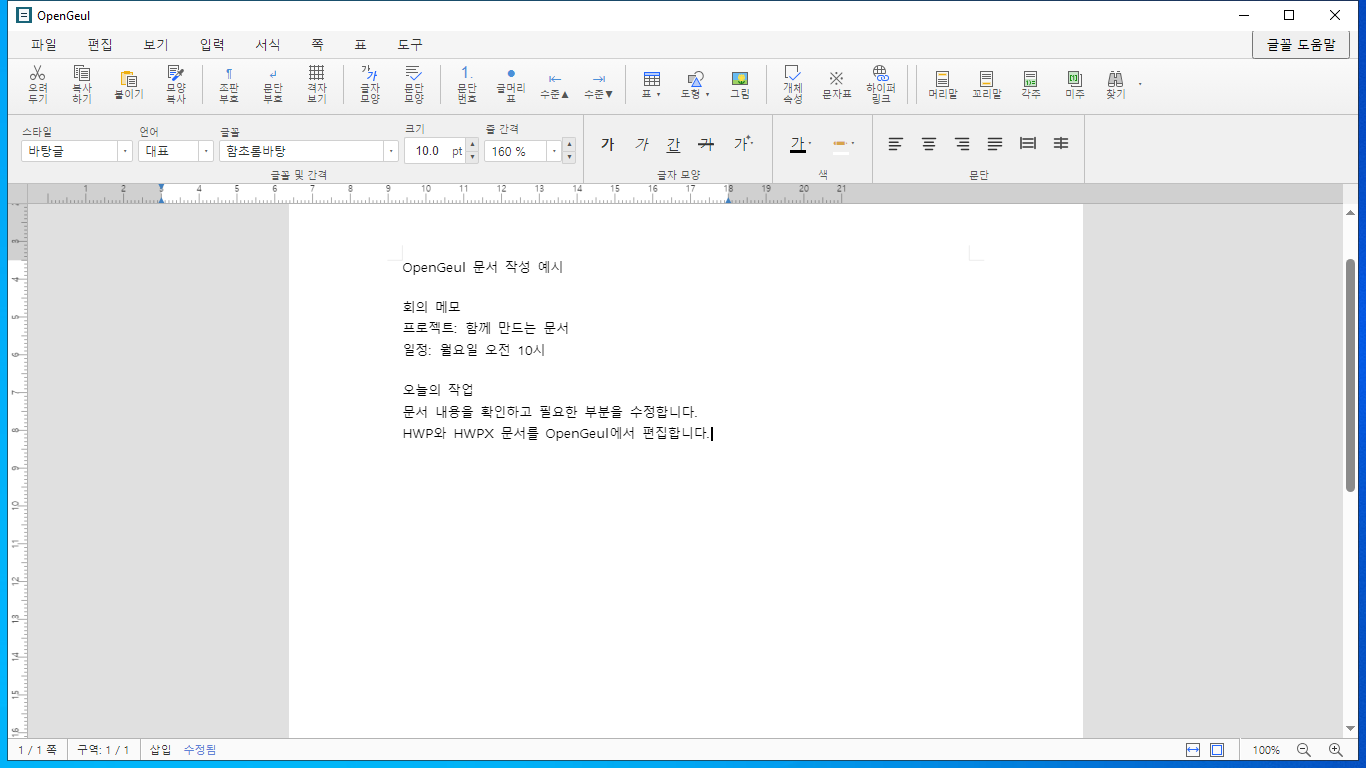
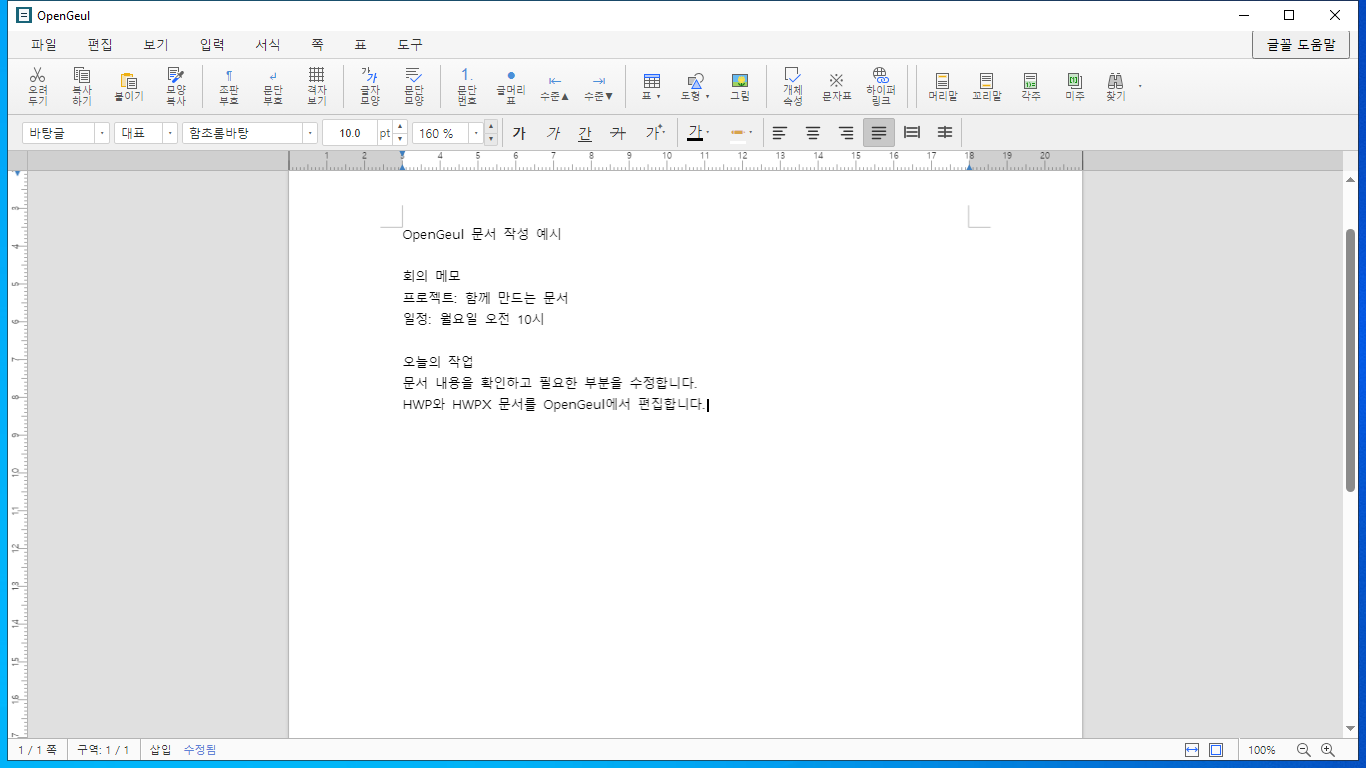
docs: publish qualified 1.1.2 development release guidance

diff --git a/website/privacy.html b/website/privacy.html
@@ -19,7 +19,7 @@
   <main id="main" class="policy wrap">
     <p class="eyebrow">OpenGeul</p>
     <h1>개인정보 처리방침</h1>
-    <p class="policy-date">적용 버전 / Applies to: OpenGeul 1.1.1–1.1.2 · 날짜 / Date: 2026-10-11</p>
+    <p class="policy-date">적용 버전 / Applies to: OpenGeul 1.1.2 개발판 · 날짜 / Date: 2026-10-11</p>
     <nav class="policy-nav" aria-label="개인정보 처리방침 언어와 항목"><a href="#korean">한국어</a><a href="#english" lang="en">English</a><a href="#website">웹사이트와 고객지원</a></nav>
     <p class="notice">OpenGeul 앱의 문서는 PC에서 처리합니다. 이 웹사이트의 접속 정보는 웹 호스팅 제공자가 처리할 수 있습니다. 앱과 웹사이트의 처리는 아래에 각각 안내합니다.</p>
     <section id="korean" aria-labelledby="korean-title">
@@ -27,6 +27,7 @@
       <p>OpenGeul은 사용자가 선택한 HWP/HWPX 문서를 PC에서 열고 편집하는 Windows 앱입니다. 문서 내용과 파일 경로에 개인정보가 포함될 수 있습니다. 앱은 문서를 읽고, 사용자가 지정한 위치에 문서와 PDF를 저장하며, 복사·잘라내기·붙여넣기 작업에 클립보드를 사용합니다. 인쇄를 요청하면 선택한 Windows 프린터로 출력 내용을 전달합니다.</p>
       <p>최근 문서 목록은 최대 10개 파일의 이름과 전체 경로를 앱의 로컬 데이터 폴더에 저장합니다. 최근 문서 창의 <strong>목록 비우기</strong>로 지울 수 있습니다. <strong>문서 이력 관리 → 현재 문서 저장</strong>을 사용하면 문서 내용의 스냅샷, 파일 이름, 사용자가 지정한 이름과 저장 시각을 로컬 WebView 저장소에 보관합니다. 문서 이력 창의 <strong>선택 삭제</strong> 또는 <strong>전체 비우기</strong>로 지울 수 있습니다. 이 기능은 자동 저장이나 복구 기능이 아닙니다.</p>
       <p>글꼴·화면·창 설정도 로컬에 저장합니다. 앱은 문서 표시와 PDF 내보내기에 설치된 글꼴 정보와 글꼴 파일을 읽습니다. Windows, WebView2 또는 앱의 진단 기능이 로컬 진단 정보를 남길 수 있습니다. 설정, 최근 문서 경로와 로컬 문서 이력에 별도의 앱 자체 암호화를 적용하지 않습니다. PC 사용자 계정과 저장장치의 보안 설정을 사용하세요.</p>
+      <p>암호 문서를 열어 처리한 뒤 다른 이름으로 저장한 HWP/HWPX 파일에는 암호가 적용되지 않습니다. 저장 전에 확인을 요청하며, 확인을 취소하면 그 평문 파일을 만들지 않습니다. 암호 원본을 보관하려면 원본과 다른 경로를 선택하세요. PDF, 인쇄물과 클립보드에도 암호가 해제된 내용이 포함될 수 있으며, 원본 문서의 암호가 자동으로 적용되지 않습니다. 암호를 입력해 연 문서도 문서 이력에 저장하면 복호화된 내용의 로컬 스냅샷이 남을 수 있습니다. 이 스냅샷에는 원본 문서의 암호가 적용되지 않습니다.</p>
       <p>함께 제공하는 명령줄 도구 <code>Tools/rhwp.exe</code>는 사용자가 지정한 문서, 글꼴 폴더와 문서 암호를 처리할 수 있습니다. 명령에 따라 문서 내용과 메타데이터를 파일 또는 표준 출력으로 내보냅니다. 사용자가 로컬 표준 입출력 방식의 MCP 서버를 실행하면 연결한 MCP 클라이언트로 문서 데이터를 전달할 수 있습니다. 도구를 연결한 클라이언트와 출력 파일의 접근 권한을 확인하세요.</p>
       <p>이 버전에는 OpenGeul 계정 로그인, 광고, 분석용 추적 또는 개발자 서버로 문서를 업로드하는 기능이 없습니다. 앱 자체의 백그라운드 업데이트 기능은 비활성화되어 있습니다. <strong>글꼴 도움말</strong>의 다운로드 링크를 누르면 외부 글꼴 사이트를 기본 브라우저로 엽니다. 해당 사이트, Microsoft Store, Windows와 WebView2의 동작에는 각 제공자의 개인정보 처리방침이 적용됩니다. 사용자가 선택한 네트워크 경로, 클라우드 동기화 폴더와 네트워크 프린터는 해당 서비스로 데이터를 전달할 수 있습니다.</p>
       <p>문의는 <a href="mailto:allenlim@allenlim.net">allenlim@allenlim.net</a> 또는 <a href="/#support">OpenGeul 지원 페이지</a>를 이용하세요. 공개 문의에 개인정보가 포함된 문서나 진단 정보를 첨부하지 마세요.</p>
@@ -36,6 +37,7 @@
       <p>OpenGeul is a Windows application that opens and edits HWP/HWPX documents on your PC. Document contents and file paths may contain personal information. The application reads documents you open, writes documents and PDFs to locations you choose, uses the clipboard for copy, cut and paste, and sends rendered content to your chosen Windows printer when you print.</p>
       <p>The recent-document list stores the names and full paths of up to 10 files in the application's local data folder. Clear it with <strong lang="ko">목록 비우기</strong> in the recent-document dialog. If you use <strong lang="ko">문서 이력 관리 → 현재 문서 저장</strong>, the application keeps document-content snapshots, source filenames, your labels and timestamps in local WebView storage. Remove them with <strong lang="ko">선택 삭제</strong> or <strong lang="ko">전체 비우기</strong> in the document-history dialog. This manual history feature is separate from autosave or recovery, which this version does not provide.</p>
       <p>Font, view and window preferences are also stored locally. The application reads installed font information and font files for document rendering and PDF export. Windows, WebView2 or application diagnostics may retain local diagnostic information. The application does not apply its own encryption to preferences, recent-document paths or local document history. Use your PC account and storage security settings to protect them.</p>
+      <p>HWP/HWPX files saved with Save As after opening a password-protected document are unencrypted. The application asks for confirmation before saving; cancelling that confirmation does not create the plaintext file. Choose a different path to keep the encrypted original. PDFs, printed output and clipboard data may also contain decrypted content; the original document's password is not automatically applied to those outputs. Saving a password-opened document to Document History can retain a readable local snapshot of its content. The snapshot is not protected by the document password.</p>
       <p>The bundled command-line tool <code>Tools/rhwp.exe</code> can process documents, font folders and document passwords you specify. Depending on the command, it writes document contents and metadata to files or standard output. If you launch its local stdio MCP server, it can return document data to the MCP client you connect. Check access to that client and any output files.</p>
       <p>This version has no OpenGeul account login, advertising, analytics tracking or feature that uploads documents to a developer-operated server. Its own background updater is disabled. Clicking a download link in <strong lang="ko">글꼴 도움말</strong> opens an external font website in your default browser. Those websites, Microsoft Store, Windows and WebView2 have their own privacy policies. Network paths, cloud-synced folders and network printers you choose can send data through those services.</p>
       <p>Contact the developer at <a href="mailto:allenlim@allenlim.net">allenlim@allenlim.net</a> or through <a href="/#support">OpenGeul support</a>. Do not attach documents or diagnostics containing personal information to a public issue.</p>

diff --git a/website/index.html b/website/index.html
@@ -28,9 +28,9 @@
         <h1 id="hero-title">HWP 문서를,<br><span>내 PC에서 편집하세요.</span></h1>
         <div class="hero-details">
           <p class="lead">OpenGeul은 HWP와 HWPX를 열고 편집·저장하는 무료 문서 편집기입니다. PDF로 내보내거나 Windows 프린터로 인쇄할 수 있습니다.</p>
-          <a class="button primary" href="https://github.com/ATLKR/OpenGeul/releases/download/v1.1.1-dev.29.1/OpenGeul_1.1.1_windows-x64_unsigned-portable.zip">Windows x64 다운로드 <span aria-hidden="true">↓</span></a>
-          <p class="download-note">ZIP · v1.1.1-dev.29.1 · 서명되지 않은 개발판</p>
-          <a class="text-link" href="https://github.com/ATLKR/OpenGeul/releases/tag/v1.1.1-dev.29.1">GitHub 릴리스와 변경 내용 <span aria-hidden="true">↗</span></a>
+          <a class="button primary" href="https://github.com/ATLKR/OpenGeul/releases/download/v1.1.2-dev.64.1/OpenGeul_1.1.2_windows-x64_unsigned-portable.zip">Windows x64 다운로드 <span aria-hidden="true">↓</span></a>
+          <p class="download-note">ZIP · v1.1.2-dev.64.1 · 서명되지 않은 개발판</p>
+          <a class="text-link" href="https://github.com/ATLKR/OpenGeul/releases/tag/v1.1.2-dev.64.1">GitHub 릴리스와 변경 내용 <span aria-hidden="true">↗</span></a>
         </div>
       </div>
       <p class="requirements">Windows 10 버전 2004 이상 또는 Windows 11 · <a href="https://developer.microsoft.com/en-us/microsoft-edge/webview2/">Microsoft Edge WebView2 런타임 필요</a> · 한국어 인터페이스</p>
@@ -52,26 +52,27 @@
 
     <section id="download" class="section download-section" aria-labelledby="download-title">
       <div class="wrap download-layout">
-        <div class="section-heading"><p class="eyebrow">다운로드</p><h2 id="download-title">지금은 GitHub에서<br>개발판을 받을 수 있습니다.</h2><p class="muted">OpenGeul은 무료입니다. Microsoft Store 배포는 현재 심사 중입니다.</p></div>
+        <div class="section-heading"><p class="eyebrow">다운로드</p><h2 id="download-title">지금은 GitHub에서<br>개발판을 받을 수 있습니다.</h2><p class="muted">OpenGeul은 무료입니다. Microsoft Store 배포는 준비 중입니다.</p></div>
         <div class="download-options">
           <article class="download-option" aria-labelledby="github-title">
             <div class="option-top"><h3 id="github-title">Windows x64 포터블 ZIP</h3><span class="pill">개발판</span></div>
-            <p>v1.1.1-dev.29.1. ZIP 전체를 풀고 <code>OpenGeul.exe</code>를 실행하세요. WebView2 런타임이 설치되어 있어야 합니다.</p>
+            <p>v1.1.2-dev.64.1 개발판. ZIP 전체를 풀고 <code>OpenGeul.exe</code>를 실행하세요. WebView2 런타임이 설치되어 있어야 합니다.</p>
             <p class="muted">현재 파일에는 신뢰된 코드 서명이 없습니다. Windows와 조직의 보안 정책에 따라 실행이 제한될 수 있습니다.</p>
-            <a class="button primary" href="https://github.com/ATLKR/OpenGeul/releases/download/v1.1.1-dev.29.1/OpenGeul_1.1.1_windows-x64_unsigned-portable.zip">포터블 ZIP 다운로드 <span aria-hidden="true">↓</span></a>
-            <a class="text-link" href="https://github.com/ATLKR/OpenGeul/releases/tag/v1.1.1-dev.29.1">릴리스 안내 · 파일 검증 정보 <span aria-hidden="true">↗</span></a>
+            <a class="button primary" href="https://github.com/ATLKR/OpenGeul/releases/download/v1.1.2-dev.64.1/OpenGeul_1.1.2_windows-x64_unsigned-portable.zip">포터블 ZIP 다운로드 <span aria-hidden="true">↓</span></a>
+            <a class="text-link" href="https://github.com/ATLKR/OpenGeul/releases/tag/v1.1.2-dev.64.1">릴리스 안내 · 파일 검증 정보 <span aria-hidden="true">↗</span></a>
           </article>
-          <article class="store-option" aria-labelledby="store-title"><div class="option-top"><h3 id="store-title">Microsoft Store</h3><span class="pill quiet">심사 중</span></div><p>아직 Store에서 설치할 수 없습니다. 심사를 통과해 공개되면 이곳에 설치 링크를 안내합니다.</p></article>
+          <article class="store-option" aria-labelledby="store-title"><div class="option-top"><h3 id="store-title">Microsoft Store</h3><span class="pill quiet">배포 준비 중</span></div><p>새 버전의 Store 배포를 준비하고 있습니다. 공개되면 이곳에 설치 링크를 안내합니다.</p></article>
         </div>
       </div>
     </section>
 
     <section id="guide" class="section wrap guide-section" aria-labelledby="guide-title">
-      <div class="section-heading"><p class="eyebrow">사용 안내</p><h2 id="guide-title">작업을 시작하기 전에<br>확인해 주세요.</h2><p class="muted">이 안내는 현재 제공하는 1.1.1 개발판 기준입니다.</p></div>
+      <div class="section-heading"><p class="eyebrow">사용 안내</p><h2 id="guide-title">작업을 시작하기 전에<br>확인해 주세요.</h2><p class="muted">이 안내는 1.1.2 개발판 기준입니다.</p></div>
       <dl class="guide-list">
         <div><dt>Windows와 WebView2</dt><dd>Windows 10 버전 2004 이상 또는 Windows 11의 x64 환경을 지원합니다. <a href="https://developer.microsoft.com/en-us/microsoft-edge/webview2/">WebView2 런타임</a>이 필요합니다. ARM64와 32비트 전용 빌드는 제공하지 않습니다.</dd></div>
         <div><dt>원본과 글꼴</dt><dd>문서의 모든 요소가 원본과 똑같이 표시되거나 저장된다고 보장하지 않습니다. 설치된 글꼴이 다르면 배치가 달라질 수 있습니다. 원본을 보관하고 저장·인쇄 결과를 확인하세요. 글꼴 파일은 함께 배포하지 않습니다.</dd></div>
-        <div><dt>현재 기능 범위</dt><dd>인터페이스는 주로 한국어입니다. GUI에서 암호가 걸린 문서를 여는 기능, 자동 저장과 복구는 지원하지 않습니다. DOCX·XLSX·PPTX와 LibreOffice 연동도 포함하지 않습니다.</dd></div>
+        <div><dt>현재 기능 범위</dt><dd>인터페이스는 주로 한국어입니다. 자동 저장과 복구는 지원하지 않습니다. DOCX·XLSX·PPTX와 LibreOffice 연동도 포함하지 않습니다.</dd></div>
+        <div><dt>암호 문서</dt><dd>지원되는 암호 HWP/HWPX 문서를 암호를 입력해 열 수 있습니다. 잘못 입력하면 다시 입력하거나 취소할 수 있습니다. 암호 문서의 일반 저장은 차단되며, 다른 이름으로 저장할 때 암호 없는 HWP/HWPX 파일을 만들기 전에 확인합니다. 확인을 취소하면 평문 파일을 만들지 않습니다. 원본 암호 문서를 보관하려면 원본과 다른 경로를 선택하세요. 문서에 암호를 유지하거나 새로 설정하여 저장하는 기능은 제공하지 않습니다.</dd></div>
         <div><dt>PC에 보관하는 정보</dt><dd>선택한 문서는 PC에서 처리합니다. 최근 문서 목록과 사용자가 직접 저장한 문서 이력은 로컬에 남을 수 있습니다. 보관 항목과 삭제 방법은 <a href="/privacy.html">개인정보 처리방침</a>에서 확인하세요.</dd></div>
       </dl>
     </section>

diff --git a/docs/FREE_CI.md b/docs/FREE_CI.md
@@ -24,7 +24,7 @@ The Windows build workflow has explicit manual modes. `full` is the default. Pus
 | `engine` | Checks plus source-built WASM, frontend tests/build, all three browser E2E environments | Never |
 | `full` | Engine checks, Windows build, both Windows native E2E environments, both virtual printers, MSIX installation | Only after every required gate succeeds and the existing trusted repository/ref/event rule allows it |
 
-Preflight is a dependency of the engine. Windows compilation waits for preflight, WASM and browser E2E success, so a fast failed test does not launch the 120-minute-cap compilation job. This may add the short browser phase to a successful run's critical path; it is deliberately optimized for faster failure feedback and avoiding wasted rebuilds, not a promise that every green run is faster.
+Preflight gates the source-built WASM. After preflight and WASM succeed, `windows-editor` and `windows-cli` compile in parallel on separate standard `windows-2025` runners, alongside all three browser E2E jobs. The `build` job joins both validated components and packages the payload without recompiling either runtime. A browser failure can arrive after Windows compilation starts and still blocks publication through the unchanged final release gates. This schedule overlaps work; it does not promise a shorter successful run or lower account-wide cost.
 
 The engine and Windows payload are each built once per full run and shared with downstream jobs from **that same run**. Native fixture transport no longer contains another copy of the browser frontend. Native and virtual-print matrices each use at most two standard runners; all three browsers remain enabled. No old diagnostic binary substitutes for a final-candidate build.
 
@@ -34,11 +34,17 @@ PR updates cancel obsolete executions of the same PR. Main release runs keep the
 
 Each evidence job stages its output separately: at most **1 MiB** on success or **12 MiB** on failure/cancellation, including its index. Root JSON/JUnit outcomes are retained first; failed-case evidence has priority. Oversized/unsupported files and all source documents, fonts and keys are excluded; omissions are recorded, not concealed. Failed test status is never changed by evidence packing. Failure traces are checked for fonts and expansion limits. Existing raw evidence is left in the runner's temporary workspace, not deleted from other runs.
 
-Before transport upload, uncompressed-file totals must fit: rebuilt WASM 32 MiB, browser inputs 64 MiB, Windows package outputs 96 MiB, native fixtures 16 MiB. Exceeding the ceiling fails rather than silently uploading more. All uploads use compression level 9 and one-day retention. These are per-upload bounds, **not** an account-wide storage reservation; multiple runs and other repositories can share allowances. Only genuinely releasable binaries belong in GitHub Releases, not arbitrary cache files.
+Before upload, each transport directory has a file-size ceiling: rebuilt WASM 32 MiB, browser inputs 64 MiB, editor component 64 MiB, CLI component 32 MiB, Windows package outputs 96 MiB and native fixtures 16 MiB. The protocol 2 CLI component stores the runtime as deterministic gzip, so its 32 MiB limit covers the compressed runtime and metadata; the restored raw CLI and joined logical payload each remain bounded to 96 MiB. The join verifies the complete single gzip member, CRC/end of stream, raw size, SHA256 and x64 PE header. Exceeding a ceiling fails rather than silently uploading more. All uploads use compression level 9 and one-day retention. These are per-upload bounds, **not** an account-wide storage reservation; multiple runs and other repositories can share allowances. Only genuinely releasable binaries belong in GitHub Releases, not arbitrary cache files.
 
-## Current verification boundary
+Temporary transport cleanup is limited to the owned public repository's first-attempt run, a complete validated same-run artifact batch and successful required consumers. Failed runs retain their inputs, successful PRs retain their unpublished Windows package, and test evidence is never selected for cleanup. The cleanup verifies each selected artifact again before deletion and does not remove another run's artifacts or Release assets.
 
-The previous run `37421054207` built and passed all browsers and MSIX installation, but failed virtual printing and one Windows2025 native test. Those failures remain release blockers. The native failure trace reached `plugin:dialog|message` after an invalid document opened: an unbound class/PID selector then waited on the replacement TaskDialog. The concurrent commit `7bccfcc` already freezes the original file picker HWND and validates its action button; that implementation is preserved. This update applies exact-window binding to error-dialog dismissal as well. It still waits for closure and separately tests the expected error message; there is no retry or bypass.
+## Verification boundary
+
+[Source run 64](https://github.com/ATLKR/OpenGeul/actions/runs/38167617349), attempt 1, completed successfully on `a51cb3547f9cbd8f090fb032f550810855feaed3`. All 14 required source jobs and transport cleanup succeeded. The [qualified development release](https://github.com/ATLKR/OpenGeul/releases/tag/v1.1.2-dev.64.1) contains the six verified original assets, with 1,562-file MSIX/portable runtime parity. Both Windows versions passed 16 original native cases and eight password cases, with 41 recorded native runtime sessions per OS; all three browsers and both virtual-printer matrices passed. The 13 required WACK tests passed with optional Blocked executables findings retained; this is not complete WACK PASS or Microsoft Store certification. No physical-printer qualification is claimed. The Windows producer-to-package interval was 39 minutes 53 seconds; the full workflow interval was 54 minutes 15 seconds. These are observations for this exact run, not an account-wide cost or future-duration guarantee.
+
+### Historical context (2026-10-06)
+
+The previous run `37421054207` built and passed all browsers and MSIX installation, but failed virtual printing and one Windows2025 native test. That earlier run was not release-qualified. The native failure trace reached `plugin:dialog|message` after an invalid document opened: an unbound class/PID selector then waited on the replacement TaskDialog. The concurrent commit `7bccfcc` already freezes the original file picker HWND and validates its action button; that implementation is preserved. This update applies exact-window binding to error-dialog dismissal as well. It still waits for closure and separately tests the expected error message; there is no retry or bypass.
 
 Local verification uses a hash-verified earlier source snapshot for unchanged files plus these explicit changes: 36 new CI tests and four native selector tests pass, and that snapshot's existing 75 tests remain passing. This is not a claim that the newer branch's whole suite or physical printers passed locally. Fresh GitHub CI on the committed candidate is authoritative. No raster baseline or printing comparison threshold was changed.
 

diff --git a/docs/PARALLEL_WINDOWS_CI.md b/docs/PARALLEL_WINDOWS_CI.md
@@ -62,12 +62,37 @@ same-run validated batch and all consumers to succeed; failed runs retain
 inputs, successful PRs retain their unpublished package, and test evidence is
 never deleted by the transport cleanup.
 
-The earlier sequential candidate [run 38142625600](https://github.com/ATLKR/OpenGeul/actions/runs/38142625600)
-took 57 minutes 41 seconds in its Windows build job and 15 minutes 38 seconds
-in WASM. These are measured previous timings, not a prediction for the new
-pipeline. The parallel pipeline's duration must be measured on a completed
-run. It uses the existing public-repository standard runner policy with no
-automatic caches or paid runners.
+The historical candidates and the current qualified source run have these
+measured Windows scopes:
+
+| Source run | Measured Windows scope | Duration | Complete source workflow |
+| --- | --- | --- | --- |
+| [50 / 38142625600](https://github.com/ATLKR/OpenGeul/actions/runs/38142625600) | Sequential Windows build job | 57 minutes 41 seconds | Failed; not release-qualified |
+| [61 / 38161639847](https://github.com/ATLKR/OpenGeul/actions/runs/38161639847) | First parallel producer start through successful package assembly | 40 minutes 14 seconds | Failed; not release-qualified |
+| [64 / 38167617349](https://github.com/ATLKR/OpenGeul/actions/runs/38167617349), attempt 1 | Same parallel Windows scope | 39 minutes 53 seconds | Succeeded; source-qualified |
+
+The historical Windows scope was 17 minutes 27 seconds (30.25%) shorter in
+run 61 than run 50. Both complete source workflows failed, and they used
+different source commits and runner executions. These observations do not
+establish a qualified release, an end-to-end CI improvement, a controlled
+causal comparison or a universal speedup. Job durations are not summed to
+measure a parallel critical path.
+
+Source run 64 is bound to `a51cb3547f9cbd8f090fb032f550810855feaed3` and
+completed successfully with all 14 required source jobs and transport cleanup.
+The Windows interval ran from 19:29:45 UTC to 20:09:38 UTC on 2026-10-11:
+39 minutes 53 seconds, or 17 minutes 48 seconds (30.86%) shorter than the
+failed run 50's successful sequential Windows build job. The complete source
+workflow ran from 19:20:43 UTC to 20:14:58 UTC: 54 minutes 15 seconds. This
+whole-CI duration is separate from the Windows interval; no fully successful
+sequential whole-CI baseline is asserted. Fresh editor, CLI and WASM hashes,
+MSIX/portable runtime parity and all required runtime gates were verified for
+the [exact development release](https://github.com/ATLKR/OpenGeul/releases/tag/v1.1.2-dev.64.1).
+These observations compare different commits and runner executions; they do
+not establish a controlled causal estimate or universal speedup. The workflow
+uses the existing public repository's standard runner policy with no automatic
+caches or paid runners; account-wide billing and storage are outside this
+workflow proof.
 
 For local Windows builds, `scripts/build-msix.ps1 -WasmDirectory <directory>`
 retains the complete sequential build. CI uses `-Phase Editor`, `-Phase Cli`
